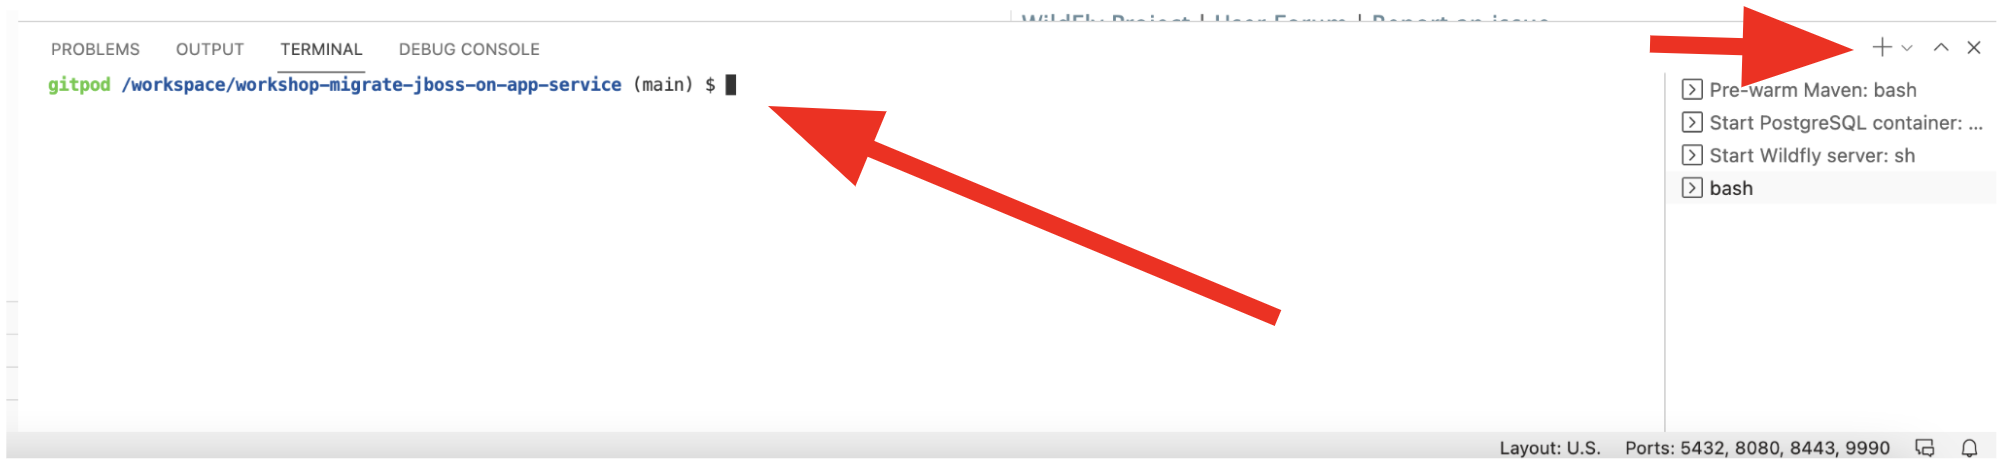
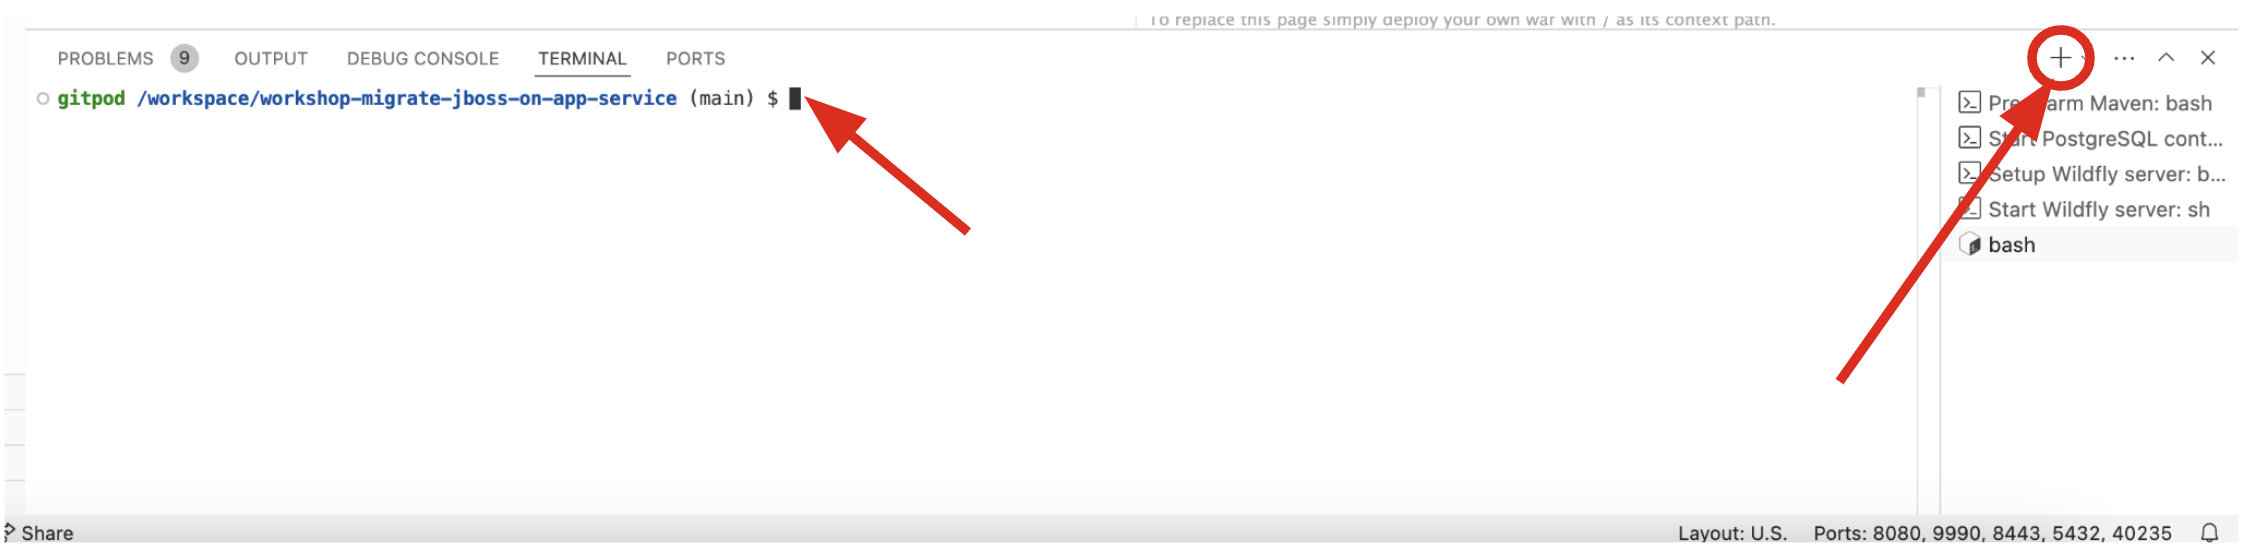
update env setup

diff --git a/instructions/1-environment-setup.md b/instructions/1-environment-setup.md
@@ -33,7 +33,7 @@ The exercises in this workshop will involve creating and configuring resources f
 
 1. Open the VS Code terminal in GitPod by going to the existing `bash` terminal:
 
-    <img src="../img/0-terminal.png" width=650 align=center>
+    ![New termainl](../img/0-terminal.png)
 
 2. Run the following command to get a device authorization code and open a browser tab to the device login page.
 
@@ -88,7 +88,11 @@ Replace the entire file with the below content, and then replace the placeholder
 }
 ```
 
-Save the file, then close your existing bash Terminal since it will not have these new settings (careful not to close the others!):
+Close your existing bash Terminal since it will not have these new settings (careful not to close the others!).
+
+> **Note**
+> 
+> All changes will be automatically saved.
 
 <img src="../img/0-bash-kill.png" width=650 align=center>
 
@@ -107,7 +111,7 @@ done
 
 You should see the same values you entered. Now each new Terminal you open will have these settings. Some of the commands you run later in the workshop will reference these variables.
 
-> **Warning:**
+> **Warning**
 > 
 > If you still see placeholder values instead of the values you entered into the JSON file, ensure that
 > the file is saved by clicking into the file, and using `CTRL-S` (or `CMD-S` on a Mac), then close the
